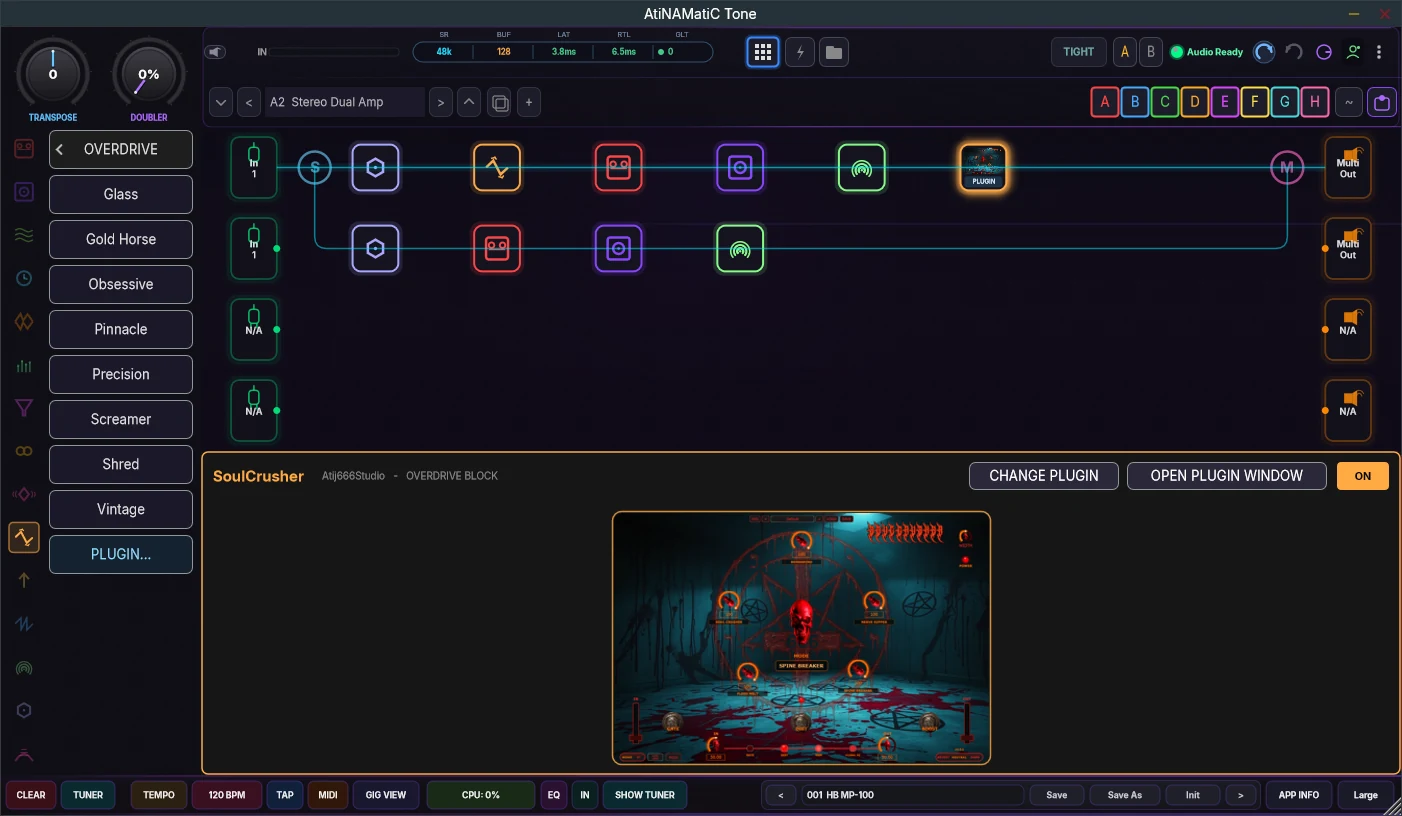
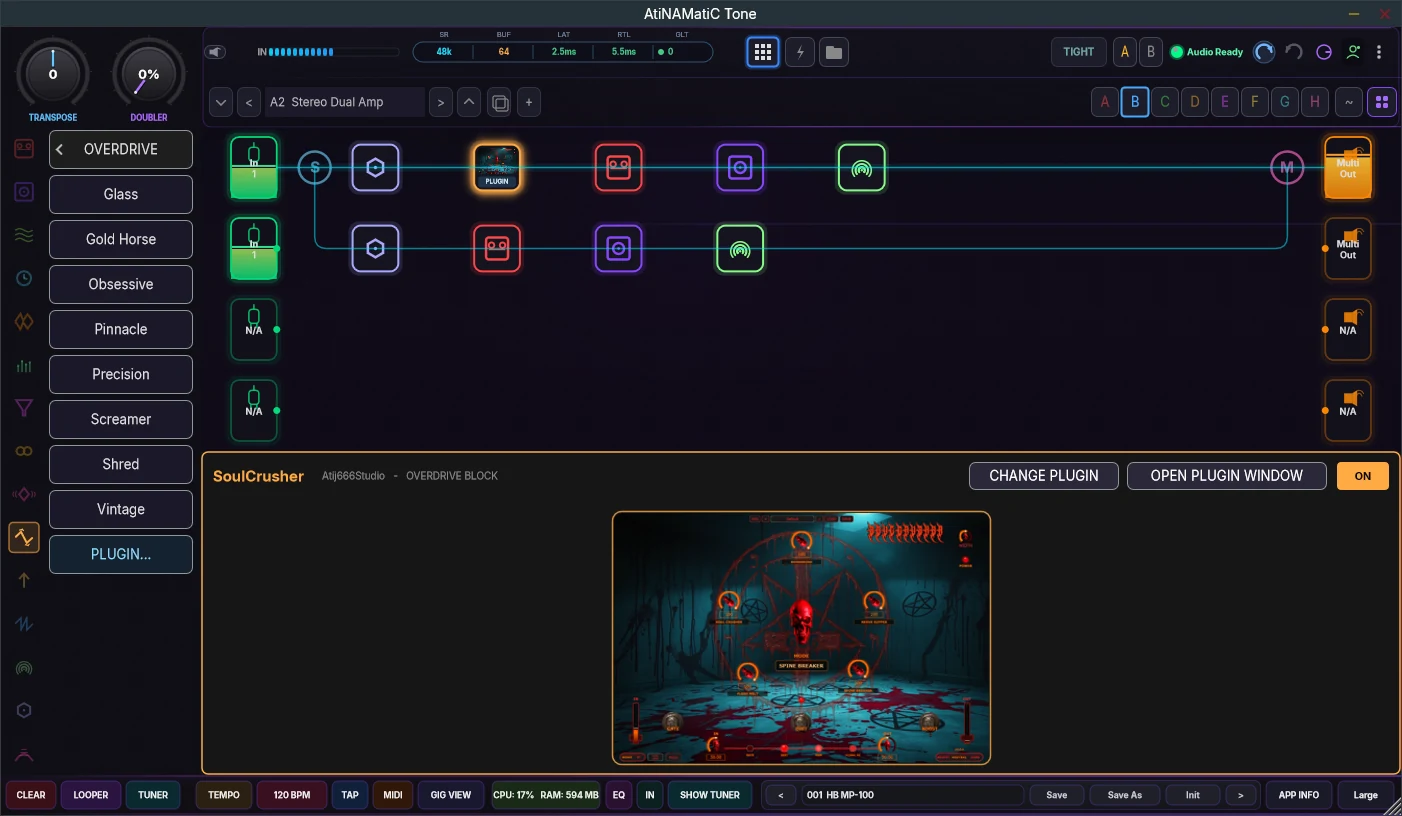
AtiNAMatiC Tone: live screenshots (plugin block as the drive before the amp, NAM CAPTURE, real latency)

diff --git a/src/lib/productDetails.js b/src/lib/productDetails.js
@@ -169,14 +169,14 @@ export const productDetails = {
       },
     ],
     gallery: [
-      shot("atinamatic-tone", "main", 1402, 816, "Split signal path on the effect grid, with a plugin block (SoulCrusher) on row 1 and the Vintage Drive amp open"),
+      shot("atinamatic-tone", "main", 1402, 816, "Split signal path: SoulCrusher (a plugin block) as the drive before the amp, with the Vintage Drive amp open, live input and latency"),
       shot("atinamatic-tone", "plugin-block", 1402, 816, "Your own plugin as a block: SoulCrusher in an OVERDRIVE slot, with its picture, ON/OFF, OPEN PLUGIN WINDOW and CHANGE PLUGIN"),
       shot("atinamatic-tone", "plugins-screen", 1402, 816, "Plugins screen: scan, search and sort your plugins, then use them as blocks"),
       shot("atinamatic-tone", "rig-capture", 1402, 816, "Rig capture: turn the whole rig you built, plugin blocks included, into a NAM model"),
       shot("atinamatic-tone", "ethereal-clean-amp", 1402, 816, "Ethereal Clean amp with its tone controls"),
       shot("atinamatic-tone", "screamer-distortion", 1402, 816, "Screamer Distortion pedal"),
       shot("atinamatic-tone", "room-reverb", 1402, 816, "Room Reverb with size, decay, pre-delay and EQ"),
-      shot("atinamatic-tone", "nam-loader", 1402, 816, "NAM loader with calibration, gate and the Parametric NAM trainer (Windows standalone app)"),
+      shot("atinamatic-tone", "nam-loader", 1402, 816, "NAM block with a built-in capture loaded, calibration and gate, plus NAM CAPTURE and the Parametric NAM trainer (Windows standalone app)"),
       shot("atinamatic-tone", "advanced-looper", 1402, 816, "Advanced looper: four tracks, overdub, speed and stem split"),
       shot("atinamatic-tone", "advanced-tuner", 1402, 816, "Advanced tuner with strobe, stream and harmonic modes"),
       shot("atinamatic-tone", "gig-view", 1402, 816, "Gig view in HYBRID mode: footswitches A-D toggle blocks, E-H recall scenes"),

diff --git a/src/lib/site.js b/src/lib/site.js
@@ -152,7 +152,7 @@ export const products = [
     releaseRepo: "atij666studio/AtiNAMatiC-Tone-Downloads",
     image: {
       src: "/screenshots/atinamatic-tone/main.webp",
-      alt: "AtiNAMatiC Tone with a split signal path on the effect grid, a plugin block on row 1 and the Vintage Drive amp open",
+      alt: "AtiNAMatiC Tone with a split signal path on the effect grid, a plugin block as the drive before the amp, and the Vintage Drive amp open",
       width: 1402,
       height: 816,
     },
